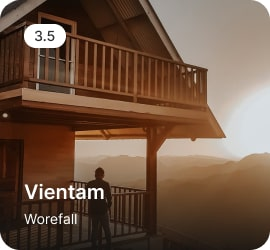
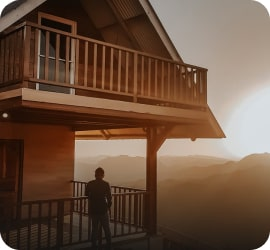
add top destinations section

Changed region(s): [[0.0889, 0.728, 0.3852, 0.812], [0.0889, 0.084, 0.2667, 0.196], [0.0889, 0.84, 0.2963, 0.896]]

diff --git a/src/App.vue b/src/App.vue
@@ -200,17 +200,71 @@
               </div>
             </div>
           </li>
-          <!-- <li class="text-center space-y-[18px]">
-            <img class="w-[362px] h-[252px] bg-gray-light rounded-[85px]" src="./media/dest1.jpg" alt="Mountain Hiking Tour">
-            <div>
-              <p class="text-[26px] font-medium leading-[26px]">Mountain Hiking Tour</p>
-              <p class="text-[26px] font-medium leading-[26px]">Mountain Hiking Tour</p>
-              <div class="flex items-center justify-between">
-                <span>$89 /Person</span>
-                <button>Book Now</button>
-              </div>
+        </ul>
+      </div>
+    </section>
+    <!-- Top destinations -->
+    <section class="section">
+      <div class="app-container flex-col items-center">
+        <h2 class="text-[56px] font-semibold leading-[1.18] mb-[16px]">Top destinations</h2>
+        <p class="text-gray-light leading-4 mb-7">Sost Brilliant reasons Entrada should be your one-stop-shop!</p>
+        <ul class="flex gap-[14px]">
+          <li><button class="text-[14px] leading-[14px] hover:text-white hover:bg-black py-3 px-4 border border-black rounded-[46px]" type="button">London</button></li>
+          <li><button class="text-[14px] leading-[14px] hover:text-white hover:bg-black py-3 px-4 border border-black rounded-[46px]" type="button">Bangkok</button></li>
+          <li><button class="text-[14px] leading-[14px] hover:text-white hover:bg-black py-3 px-4 border border-black rounded-[46px]" type="button">England</button></li>
+          <li><button class="text-[14px] leading-[14px] hover:text-white hover:bg-black py-3 px-4 border border-black rounded-[46px]" type="button">Singapore</button></li>
+          <li><button class="text-[14px] leading-[14px] hover:text-white hover:bg-black py-3 px-4 border border-black rounded-[46px]" type="button">Italy</button></li>
+        </ul>
+
+        <ul class="grid gap-x-[30px] gap-y-[13px] mt-[51px]">
+          <li class="box1 relative">
+            <img class="w-[270px] h-[250px] rounded-[20px]" src="./media/card1.jpg" alt="House">
+            <span class="absolute top-6 left-6 flex items-center justify-center w-[42px] h-6 bg-white text-[14px] leading-[14px] rounded-xl">3.5</span>
+            <div class="absolute bottom-6 left-6 flex flex-col">
+              <span class="text-white text-[20px] leading-5">Vietnam</span>
+              <span class="text-white text-[14px] leading-[14px]">Worefall</span>
             </div>
-          </li> -->
+          </li>
+          <li class="box2 relative">
+            <img class="w-[270px] h-[250px] rounded-[20px] mt-[13px]" src="./media/card2.jpg" alt="Building">
+            <span class="absolute top-6 left-6 flex items-center justify-center w-[42px] h-6 bg-white text-[14px] leading-[14px] rounded-xl">3.5</span>
+            <div class="absolute bottom-6 left-6 flex flex-col gap-[10px]">
+              <span class="text-white text-[20px] leading-5">Vietnam</span>
+              <span class="text-white text-[14px] leading-[14px]">Worefall</span>
+            </div>
+          </li>
+          <li class="box3 relative">
+            <img class="w-[370px] h-[526px] rounded-[20px]" src="./media/card3.jpg" alt="Corner of the street">
+            <span class="absolute top-6 left-6 flex items-center justify-center w-[42px] h-6 bg-black text-white text-[14px] leading-[14px] rounded-xl">3.5</span>
+            <div class="absolute bottom-6 left-6 flex flex-col gap-[10px]">
+              <span class="text-white text-[20px] leading-5">Vietnam</span>
+              <span class="text-white text-[14px] leading-[14px]">Worefall</span>
+            </div>
+          </li>
+          <li class="box4 relative">
+            <img class="w-[470px] h-[250px] rounded-[20px]" src="./media/card4.jpg" alt="Bridge">
+            <span class="absolute top-6 left-6 flex items-center justify-center w-[42px] h-6 bg-black text-white text-[14px] leading-[14px] rounded-xl">3.5</span>
+            <div class="absolute bottom-6 left-6 flex flex-col gap-[10px]">
+              <span class="text-white text-[20px] leading-5">Vietnam</span>
+              <span class="text-white text-[14px] leading-[14px]">Worefall</span>
+            </div>
+          </li>
+          <li class="box5 relative">
+            <img class="w-[170px] h-[263px] rounded-[20px]" src="./media/card5.jpg" alt="Cathedral">
+            <span class="absolute top-6 left-6 flex items-center justify-center w-[42px] h-6 bg-black text-white text-[14px] leading-[14px] rounded-xl">3.5</span>
+            <div class="absolute bottom-6 left-6 flex flex-col gap-[10px]">
+              <span class="text-white text-[20px] leading-5">Vietnam</span>
+              <span class="text-white text-[14px] leading-[14px]">Worefall</span>
+            </div>
+          </li>
+          <li class="box6 relative">
+            <img class="w-[270px] h-[263px] rounded-[20px]" src="./media/card6.jpg" alt="Big Ben">
+            <span class="absolute top-6 left-6 flex items-center justify-center w-[42px] h-6 bg-black text-white text-[14px] leading-[14px] rounded-xl">3.5</span>
+            <div class="absolute bottom-6 left-6 flex flex-col gap-[10px]">
+              <span class="text-white text-[20px] leading-5">Vietnam</span>
+              <span class="text-white text-[14px] leading-[14px]">Worefall</span>
+            </div>
+          </li>
         </ul>
       </div>
     </section>
@@ -252,5 +306,59 @@
   border-radius: 5px;
   border: 1px solid #ccc;
   font-size: 16px;
+}
+
+.box1 {
+  grid-column: 1 / 2;
+  grid-row: 1 / 2;
+  /* grid-column-start: 1;
+   grid-column-end: 2;
+   grid-row-start: 1;
+   grid-row-end: 2; */
+}
+
+.box2 {
+  grid-column: 1 / 2;
+  grid-row: 2 / 3;
+  /* grid-column-start: 1;
+   grid-column-end: 2;
+   grid-row-start: 2;
+   grid-row-end: 3; */
+}
+
+.box3 {
+  grid-column: 2 / 3;
+  grid-row: 1 / 3;
+  /* grid-column-start: 2;
+   grid-column-end: 3;
+   grid-row-start: 1;
+   grid-row-end: 3; */
+}
+
+.box4 {
+  grid-column: 3 / 5;
+  grid-row: 1 / 2;
+  /* grid-column-start: 3;
+   grid-column-end: 5;
+   grid-row-start: 1;
+   grid-row-end: 2; */
+}
+
+.box5 {
+  grid-column: 3 / 4;
+  grid-row: 2 / 3;
+  /* grid-column-start: 3;
+   grid-column-end: 4;
+   grid-row-start: 2;
+   grid-row-end: 3; */
+}
+
+.box6 {
+  grid-column: 4 / 5;
+  grid-row: 2 / 3;
+  /* grid-column-start: 4;
+   grid-column-end: 5;
+   grid-row-start: 2;
+   grid-row-end: 3; */
 }
 </style>
